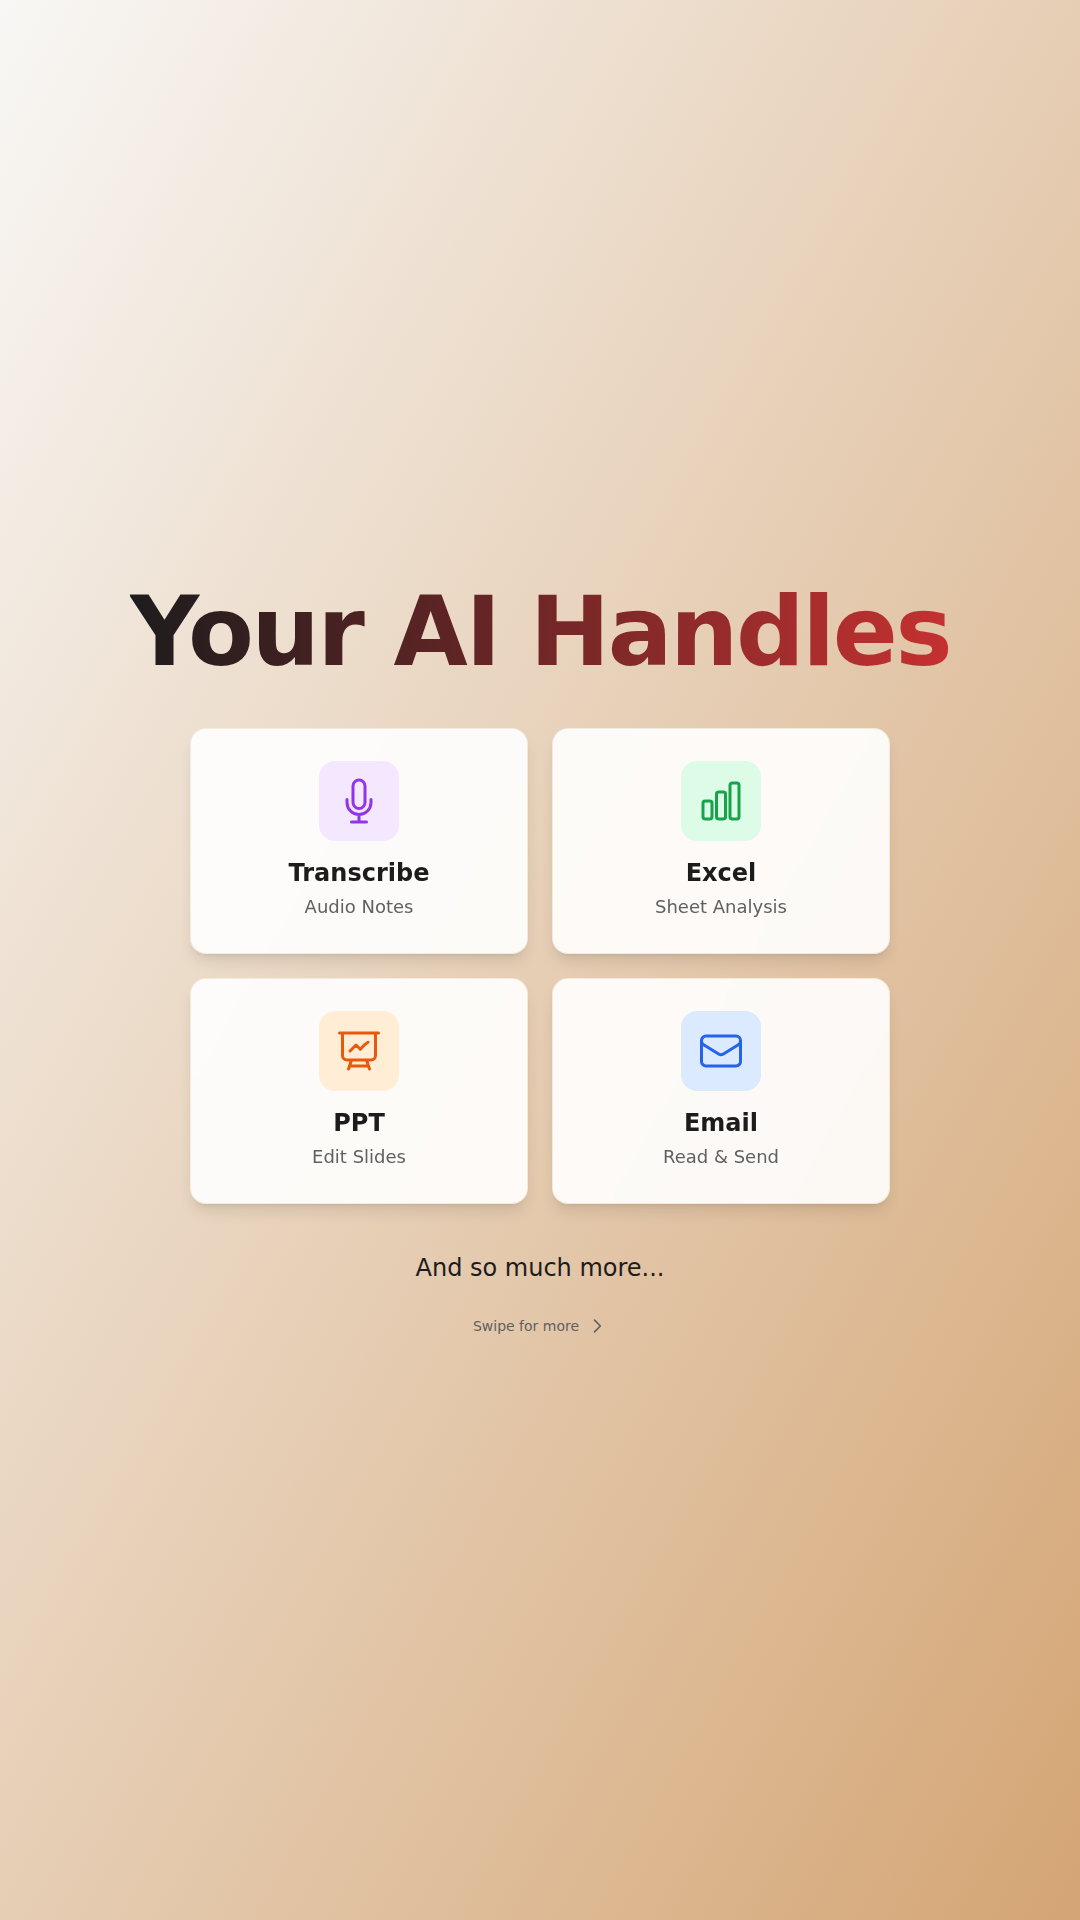
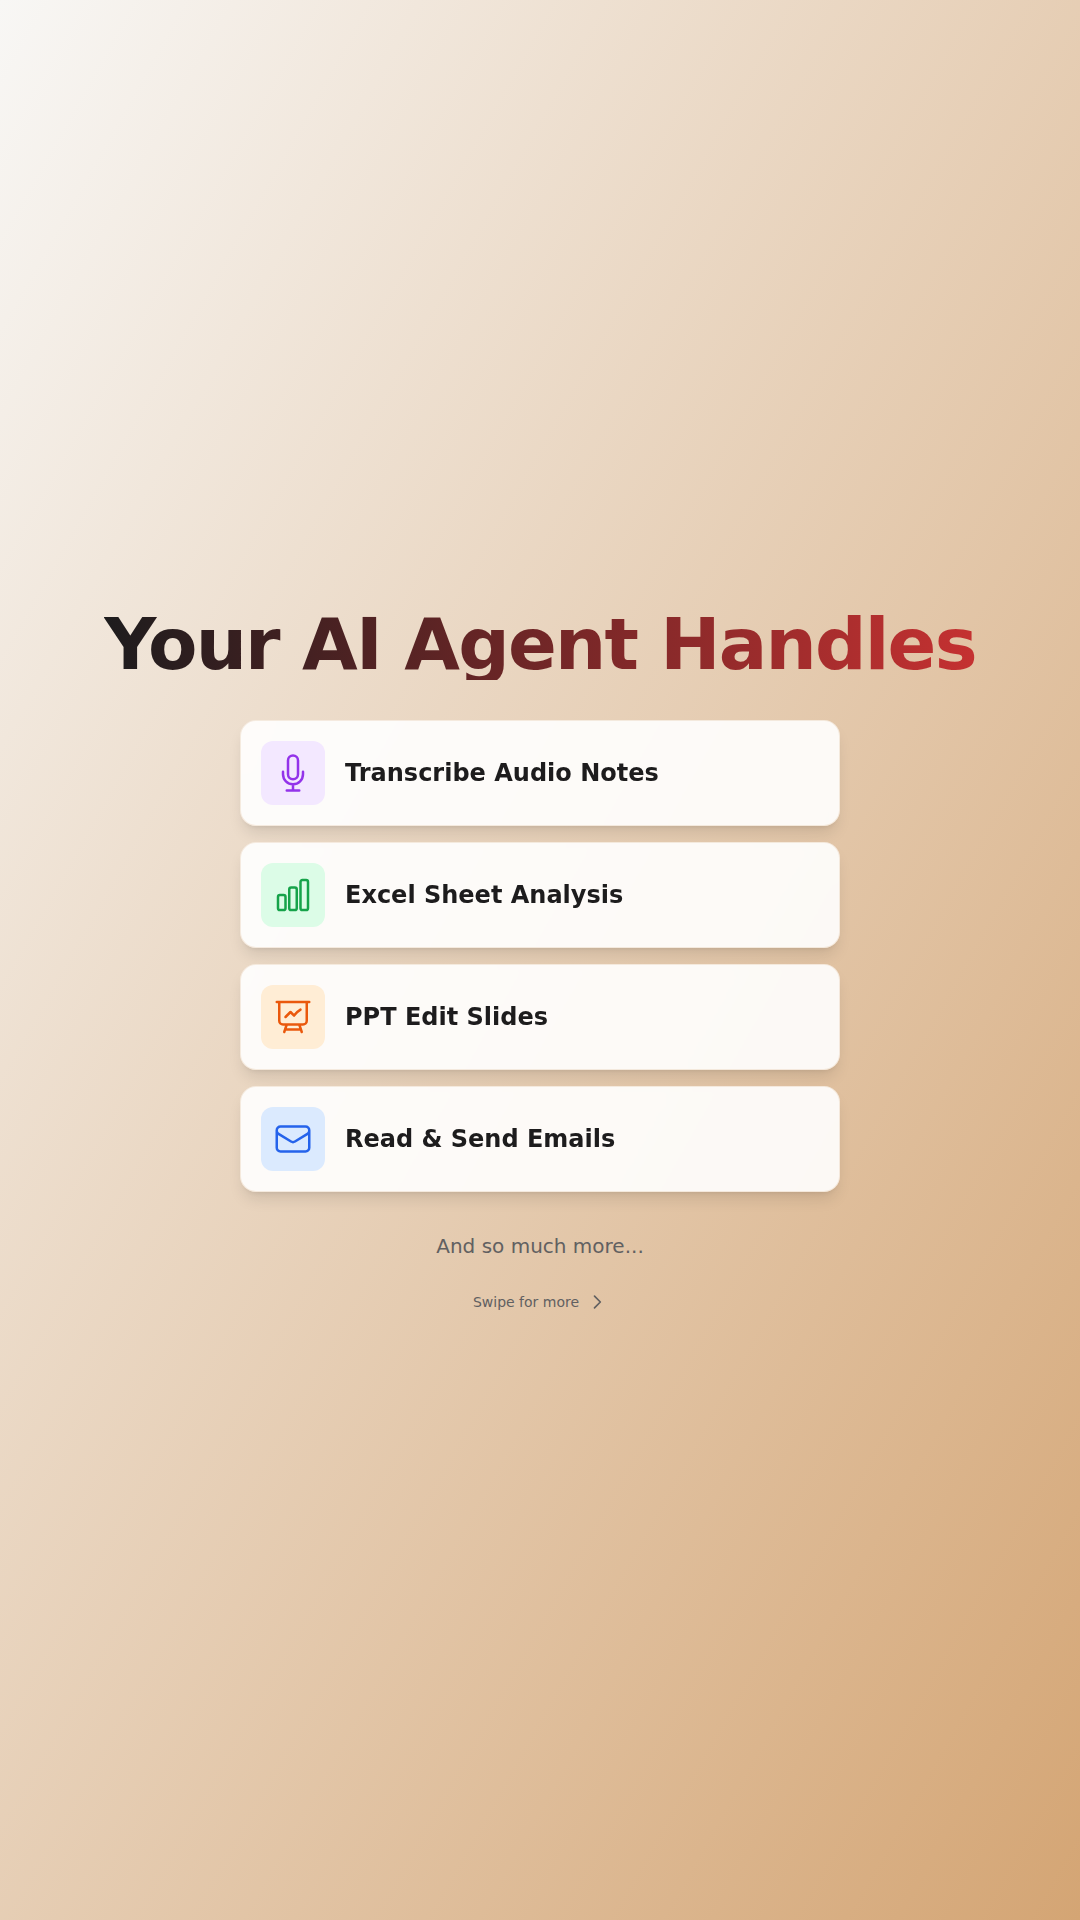
Update Slide 4: Vertical list layout with 'Your AI Agent Handles' headline

Changed region(s): [[0.0917, 0.3125, 0.9167, 0.6875]]

diff --git a/pages/slide-04.js b/pages/slide-04.js
@@ -4,42 +4,38 @@ const Slide04UseCases = () => {
   const useCases = [
     {
       icon: (
-        <svg className="w-12 h-12" fill="none" viewBox="0 0 24 24" stroke="currentColor" strokeWidth={1.5}>
+        <svg className="w-10 h-10" fill="none" viewBox="0 0 24 24" stroke="currentColor" strokeWidth={1.5}>
           <path strokeLinecap="round" strokeLinejoin="round" d="M12 18.75a6 6 0 006-6v-1.5m-6 7.5a6 6 0 01-6-6v-1.5m6 7.5v3.75m-3.75 0h7.5M12 15.75a3 3 0 01-3-3V4.5a3 3 0 116 0v8.25a3 3 0 01-3 3z" />
         </svg>
       ),
-      title: "Transcribe",
-      subtitle: "Audio Notes",
+      title: "Transcribe Audio Notes",
       color: "bg-purple-100 text-purple-600"
     },
     {
       icon: (
-        <svg className="w-12 h-12" fill="none" viewBox="0 0 24 24" stroke="currentColor" strokeWidth={1.5}>
+        <svg className="w-10 h-10" fill="none" viewBox="0 0 24 24" stroke="currentColor" strokeWidth={1.5}>
           <path strokeLinecap="round" strokeLinejoin="round" d="M3 13.125C3 12.504 3.504 12 4.125 12h2.25c.621 0 1.125.504 1.125 1.125v6.75C7.5 20.496 6.996 21 6.375 21h-2.25A1.125 1.125 0 013 19.875v-6.75zM9.75 8.625c0-.621.504-1.125 1.125-1.125h2.25c.621 0 1.125.504 1.125 1.125v11.25c0 .621-.504 1.125-1.125 1.125h-2.25a1.125 1.125 0 01-1.125-1.125V8.625zM16.5 4.125c0-.621.504-1.125 1.125-1.125h2.25C20.496 3 21 3.504 21 4.125v15.75c0 .621-.504 1.125-1.125 1.125h-2.25a1.125 1.125 0 01-1.125-1.125V4.125z" />
         </svg>
       ),
-      title: "Excel",
-      subtitle: "Sheet Analysis",
+      title: "Excel Sheet Analysis",
       color: "bg-green-100 text-green-600"
     },
     {
       icon: (
-        <svg className="w-12 h-12" fill="none" viewBox="0 0 24 24" stroke="currentColor" strokeWidth={1.5}>
+        <svg className="w-10 h-10" fill="none" viewBox="0 0 24 24" stroke="currentColor" strokeWidth={1.5}>
           <path strokeLinecap="round" strokeLinejoin="round" d="M3.75 3v11.25A2.25 2.25 0 006 16.5h2.25M3.75 3h-1.5m1.5 0h16.5m0 0h1.5m-1.5 0v11.25A2.25 2.25 0 0118 16.5h-2.25m-7.5 0h7.5m-7.5 0l-1 3m8.5-3l1 3m0 0l.5 1.5m-.5-1.5h-9.5m0 0l-.5 1.5m.75-9l3-3 2.148 2.148A12.061 12.061 0 0116.5 7.605" />
         </svg>
       ),
-      title: "PPT",
-      subtitle: "Edit Slides",
+      title: "PPT Edit Slides",
       color: "bg-orange-100 text-orange-600"
     },
     {
       icon: (
-        <svg className="w-12 h-12" fill="none" viewBox="0 0 24 24" stroke="currentColor" strokeWidth={1.5}>
+        <svg className="w-10 h-10" fill="none" viewBox="0 0 24 24" stroke="currentColor" strokeWidth={1.5}>
           <path strokeLinecap="round" strokeLinejoin="round" d="M21.75 6.75v10.5a2.25 2.25 0 01-2.25 2.25h-15a2.25 2.25 0 01-2.25-2.25V6.75m19.5 0A2.25 2.25 0 0019.5 4.5h-15a2.25 2.25 0 00-2.25 2.25m19.5 0v.243a2.25 2.25 0 01-1.07 1.916l-7.5 4.615a2.25 2.25 0 01-2.36 0L3.32 8.91a2.25 2.25 0 01-1.07-1.916V6.75" />
         </svg>
       ),
-      title: "Email",
-      subtitle: "Read & Send",
+      title: "Read & Send Emails",
       color: "bg-blue-100 text-blue-600"
     }
   ];
@@ -47,30 +43,29 @@ const Slide04UseCases = () => {
   return (
     <div className="min-h-screen w-full flex flex-col items-center justify-center bg-gradient-to-br from-[#F8F7F5] to-[#D4A574] p-8 font-sans antialiased">
       {/* Title */}
-      <div className="text-center mb-12">
-        <h1 className="font-sans text-6xl md:text-7xl lg:text-8xl font-bold tracking-tight bg-gradient-to-r from-[#1D1C1D] via-[#c53131] via-[#D4A574] to-[#1D1C1D] bg-clip-text text-transparent bg-[length:200%_auto]">
-          Your AI Handles
+      <div className="text-center mb-10">
+        <h1 className="font-sans text-5xl md:text-6xl lg:text-7xl font-bold tracking-tight bg-gradient-to-r from-[#1D1C1D] via-[#c53131] via-[#D4A574] to-[#1D1C1D] bg-clip-text text-transparent bg-[length:200%_auto]">
+          Your AI Agent Handles
         </h1>
       </div>
 
-      {/* 2x2 Grid */}
-      <div className="grid grid-cols-2 gap-6 max-w-[700px] w-full">
+      {/* Vertical List */}
+      <div className="flex flex-col gap-4 max-w-[600px] w-full">
         {useCases.map((item, index) => (
           <div 
             key={index}
-            className="bg-white/90 backdrop-blur-sm rounded-2xl p-8 flex flex-col items-center justify-center text-center shadow-lg border border-[#D4A574]/20 hover:shadow-xl transition-shadow"
+            className="bg-white/90 backdrop-blur-sm rounded-2xl p-5 flex items-center gap-5 shadow-lg border border-[#D4A574]/20 hover:shadow-xl transition-shadow"
           >
-            <div className={`w-20 h-20 rounded-2xl ${item.color} flex items-center justify-center mb-4`}>
+            <div className={`w-16 h-16 rounded-xl ${item.color} flex items-center justify-center shrink-0`}>
               {item.icon}
             </div>
-            <h3 className="text-2xl font-bold text-[#1D1C1D] mb-1">{item.title}</h3>
-            <p className="text-lg text-[#616061]">{item.subtitle}</p>
+            <h3 className="text-2xl font-bold text-[#1D1C1D]">{item.title}</h3>
           </div>
         ))}
       </div>
 
       {/* Bottom Tagline */}
-      <p className="mt-12 text-2xl text-[#1D1C1D] font-medium text-center">
+      <p className="mt-10 text-xl text-[#616061] font-medium text-center">
         And so much more...
       </p>
 
